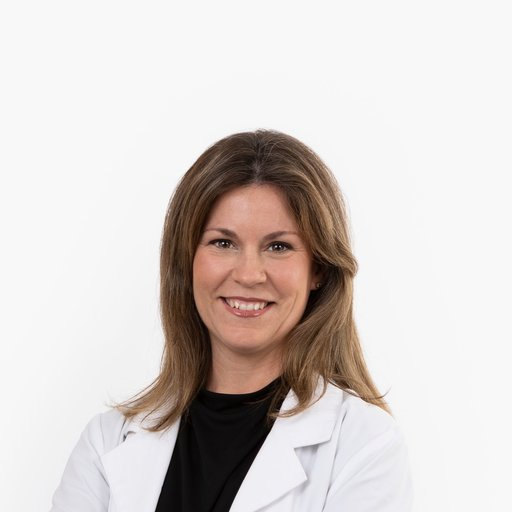
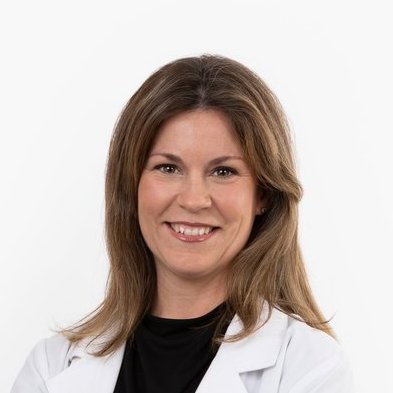
updated data

diff --git a/_members/psebastian.md b/_members/psebastian.md
@@ -3,20 +3,18 @@ name: Patricia Sebastián-León, PhD
 ref: psl
 image: images/people/PatriciaSL-tiny.jpg
 description: Post-Doctoral Researcher
-role: programmer
-affiliation: IVI Foundation
+role: postdoc
+# affiliation: IVI Foundation
 aliases:
   - P. Sebastian-Leon
-  - Patricia Sebastián-León
-# links:
-#   orcid: 0000-0003-0031-7545
-#   linkedin: patridiazgimeno
+  - Patricia Sebastian-Leon
+links:
+  orcid: 0000-0001-7299-3660
+  linkedin: patricia-sebastian-leon-9b330789
 ---
 
-Lorem ipsum dolor sit amet, consectetur adipiscing elit, sed do eiusmod tempor incididunt ut labore et dolore magna aliqua.
-Faucibus purus in massa tempor nec feugiat nisl pretium fusce.
-Elit at imperdiet dui accumsan.
-Duis tristique sollicitudin nibh sit amet commodo nulla facilisi.
-Vitae elementum curabitur vitae nunc sed velit dignissim sodales.
-Lacinia at quis risus sed vulputate odio ut.
-Magna eget est lorem ipsum.
+Patricia Sebastián León PhD develop her current research activity in  in Genomics and Systems Reproductive Medicine department, IVI-RMA Research Foundation, led by Patricia Díaz Gimeno, PhD in La Fe Health Research Institute since 2016, funded from 2022 to 2024 by ISCII (Sara Borrell grant).  In this period, she has contributed, as data-scientist, in projects related with the analysis of massive endometrial transcriptomic data in the context of reproductive medicine. In particular, her research is focused in the study of the posible causes of implantation failure from different omics perpectives (transcriptomics, metabolomics and epigenetics). In addition, she had co-supervised one master's thesis in Genetics and Genomics and two master's thesis in Bioinformatics.  
+
+The author developed her PhD thesis in Functional Genomics department, Centro de Investigación Principe Felipe (CIPF), led by Joaquin Dopazo Blázquez PhD. Her thesis describe a new methodology for the statistical modeling and analysis of signaling pathways based on massive transcriptomics data (Sebastian-Leon et al. 2013, 2014). These signaling pathway models developed by the author were used in other two works, related to the analysis of massive variant calling data (Hernansaiz-Ballesteros et al. 2015) and the use of massive transcriptomic data for signaling pathway predictive models based on machine learning algorithms (Amadoz, et al. 2015). The developed methodologies were tested in the context of two international challenges: CAMDA, were comparison of in-vivo and in-vitro drug response methodology was granted for a long-talk in the CAMDA congress; and DREAM, were the prediction of toxicity of different compounds were selected to be included in the paper (Eduati et al. 2015).
+
+Her PhD and a short-time stay in Bioinformatics School (Edinburgh University) were founded by Spanish Government FPI grant (BES-2009-015788). During her PhD, she co-supervised a master's thesis in Bioinformatics. Over the next two years, the author took an active part in STATegra European project by developing a Bioconductor’s package for the analysis and integration of different sources of massive data (Planell et al. 2020) and participating as lecturer in four courses of analysis and integration of massive data. In addition, two short-stays were done in the context of this project: one in  Statistics Department of Amsterdam University (COST european grant) (van der Kloet et al. 2016) and other in Instituto Nacional de Medicina Genomica (INMEGEN), in Mexico City (DEANN international grant).

diff --git a/_members/jbenedito.md b/_members/jbenedito.md
@@ -1,10 +1,10 @@
 ---
-name: José Benedito-Álvarez
+name: José Benedito-Álvarez, MSc
 ref: jba
 image: images/people/jose-tiny.jpeg
-description: MSc
+description: Research Assistant
 role: programmer
-affiliation: IVI Foundation
+# affiliation: IVI Foundation
 aliases:
   - P. Sebastian-Leon
   - Patricia Sebastián-León

diff --git a/_members/rcanas.md b/_members/rcanas.md
@@ -4,10 +4,10 @@ ref: rcc
 image: images/people/Ruben-tiny.jpg
 description: Bioinformatician
 role: programmer
-affiliation: IVI Foundation
+# affiliation: IVI Foundation
 aliases:
   - R. Cañas-Cañas
-  - Rubén Cañas-Cañas
+  - Ruben Cañas-Cañas
 links:
   linkedin: ruben-canas-canas-74332010b/
   github: rubencc96

diff --git a/_members/aquinonero.md b/_members/aquinonero.md
@@ -1,10 +1,10 @@
 ---
-name: Alicia Quiñonero Villora
+name: Alicia Quiñonero Villora, MSc
 ref: aqv
 image: images/people/Ali-tiny.jpg
 description: Laboratory technician
 role: laboratory
-affiliation: IVI Foundation
+# affiliation: IVI Foundation
 aliases:
   - A. Quiñonero-Villora
   - Alicia Quiñonero-Villora

diff --git a/_members/amartinez.md b/_members/amartinez.md
@@ -1,10 +1,10 @@
 ---
-name: Asunta Martínez-Martínez
+name: Asunta Martínez-Martínez, MSc
 ref: amm
 image: images/people/Asunta-tiny.jpg
 description: PhD student
 role: phd
-affiliation: IVI Foundation
+# affiliation: IVI Foundation
 aliases:
   - A. Martinez-Martinez
   - Asunta Martinez-Martinez

diff --git a/_members/naguila.md b/_members/naguila.md
@@ -1,10 +1,10 @@
 ---
-name: Nataly del Águila de Cárdenas
+name: Nataly del Águila de Cárdenas, MSc
 ref: nac
 image: images/people/Nataly-tiny.jpg
 description: PhD Student
 role: phd
-affiliation: IVI Foundation
+# affiliation: IVI Foundation
 aliases:
   - Nataly del Águila
   - N. del Aguila

diff --git a/_members/resteve.md b/_members/resteve.md
@@ -1,10 +1,10 @@
 ---
-name: Rebeca Esteve-Moreno
-ref: 
+name: Rebeca Esteve-Moreno, MSc
+ref: rem
 image: images/people/Rebeca-tiny.jpg
 description: PhD student
 role: phd
-affiliation: IVI Foundation
+# affiliation: IVI Foundation
 aliases:
   - R. Esteve-Moreno
   - Rebeca Esteve-Moreno

diff --git a/_members/msalvaleda.md b/_members/msalvaleda.md
@@ -1,10 +1,10 @@
 ---
-name: María Salvaleda-Mateu
+name: María Salvaleda-Mateu, MSc
 ref: 
 image: images/people/maria-tiny.jpeg
 description: PhD student
 role: phd
-affiliation: IVI Foundation
+# affiliation: IVI Foundation
 aliases:
   - María Salvaleda-Mateu
   - M. Salvaleda-Mateu

diff --git a/_members/mvaquerizo.md b/_members/mvaquerizo.md
@@ -2,9 +2,9 @@
 name: Mar Vaquerizo-Medina
 ref: mvm
 image: images/people/Mar-tiny.jpeg
-description: MSc Student
+description: Research Assistant
 role: phd
-affiliation: IVI Foundation
+# affiliation: IVI Foundation
 aliases:
   - Mar Vaquerizo-Medina
   - M. Vaquerizo-Medina

diff --git a/_members/eperez.md b/_members/eperez.md
@@ -1,10 +1,10 @@
 ---
-name: Elena Pérez-Rico
+name: Elena Pérez-Rico, MSc
 ref: 
 image: images/people/Elena-tiny.jpg
 description: PhD student
 role: phd
-affiliation: IVI Foundation
+# affiliation: IVI Foundation
 aliases:
   - E. Pérez-Rico
   - Elena Pérez-Rico

diff --git a/research/index.md b/research/index.md
@@ -20,6 +20,8 @@ Ut enim ad minim veniam, quis nostrud exercitation ullamco laboris nisi ut aliqu
 
 ## All
 
+<!-- {% include tags.html tags="publication, resource, website" %} -->
+
 {% include search-box.html %}
 
 {% include search-info.html %}

diff --git a/_members/iperez.md b/_members/iperez.md
@@ -4,7 +4,7 @@ ref: ipp
 image: images/people/Inma-tiny.jpg
 description: Post-doctoral Researcher
 role: postdoc
-affiliation: IVI Foundation
+# affiliation: IVI Foundation
 aliases:
   - I. Pérez-Prieto
   - Inmaculada Pérez-Prieto
